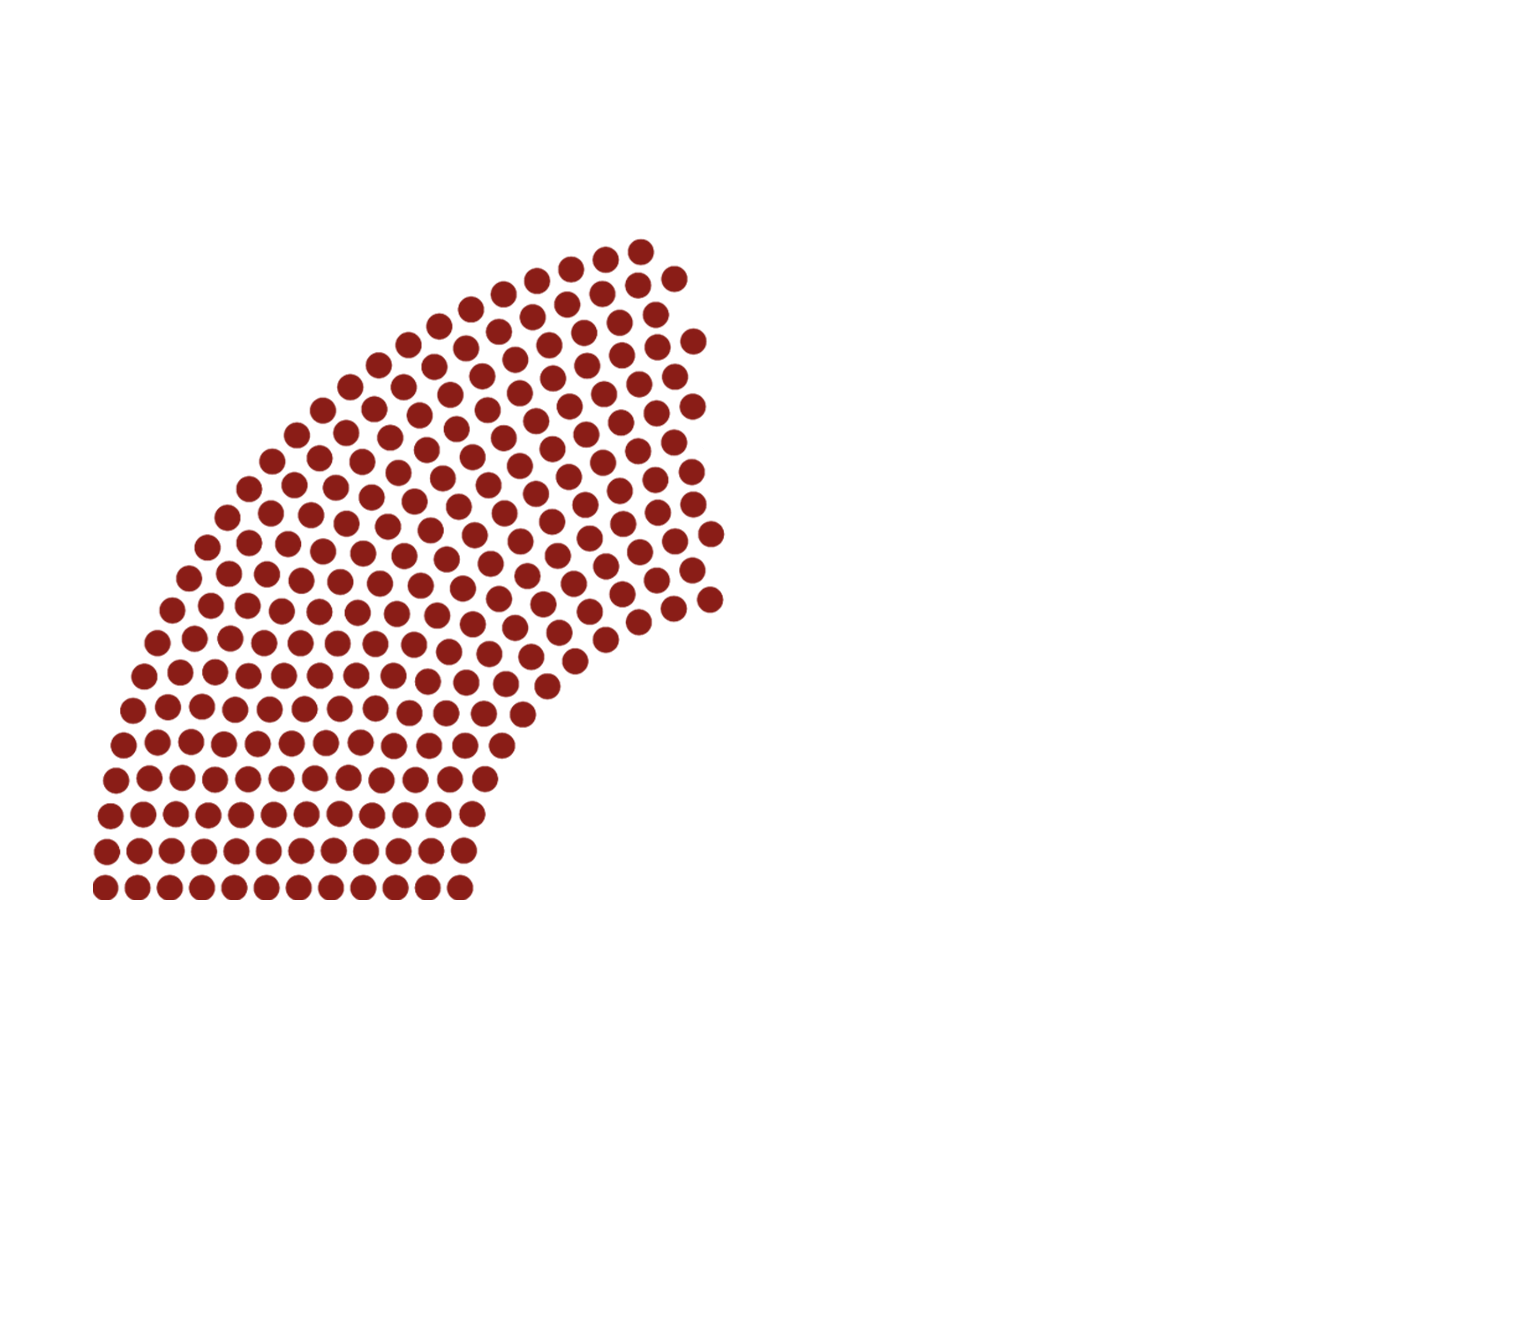
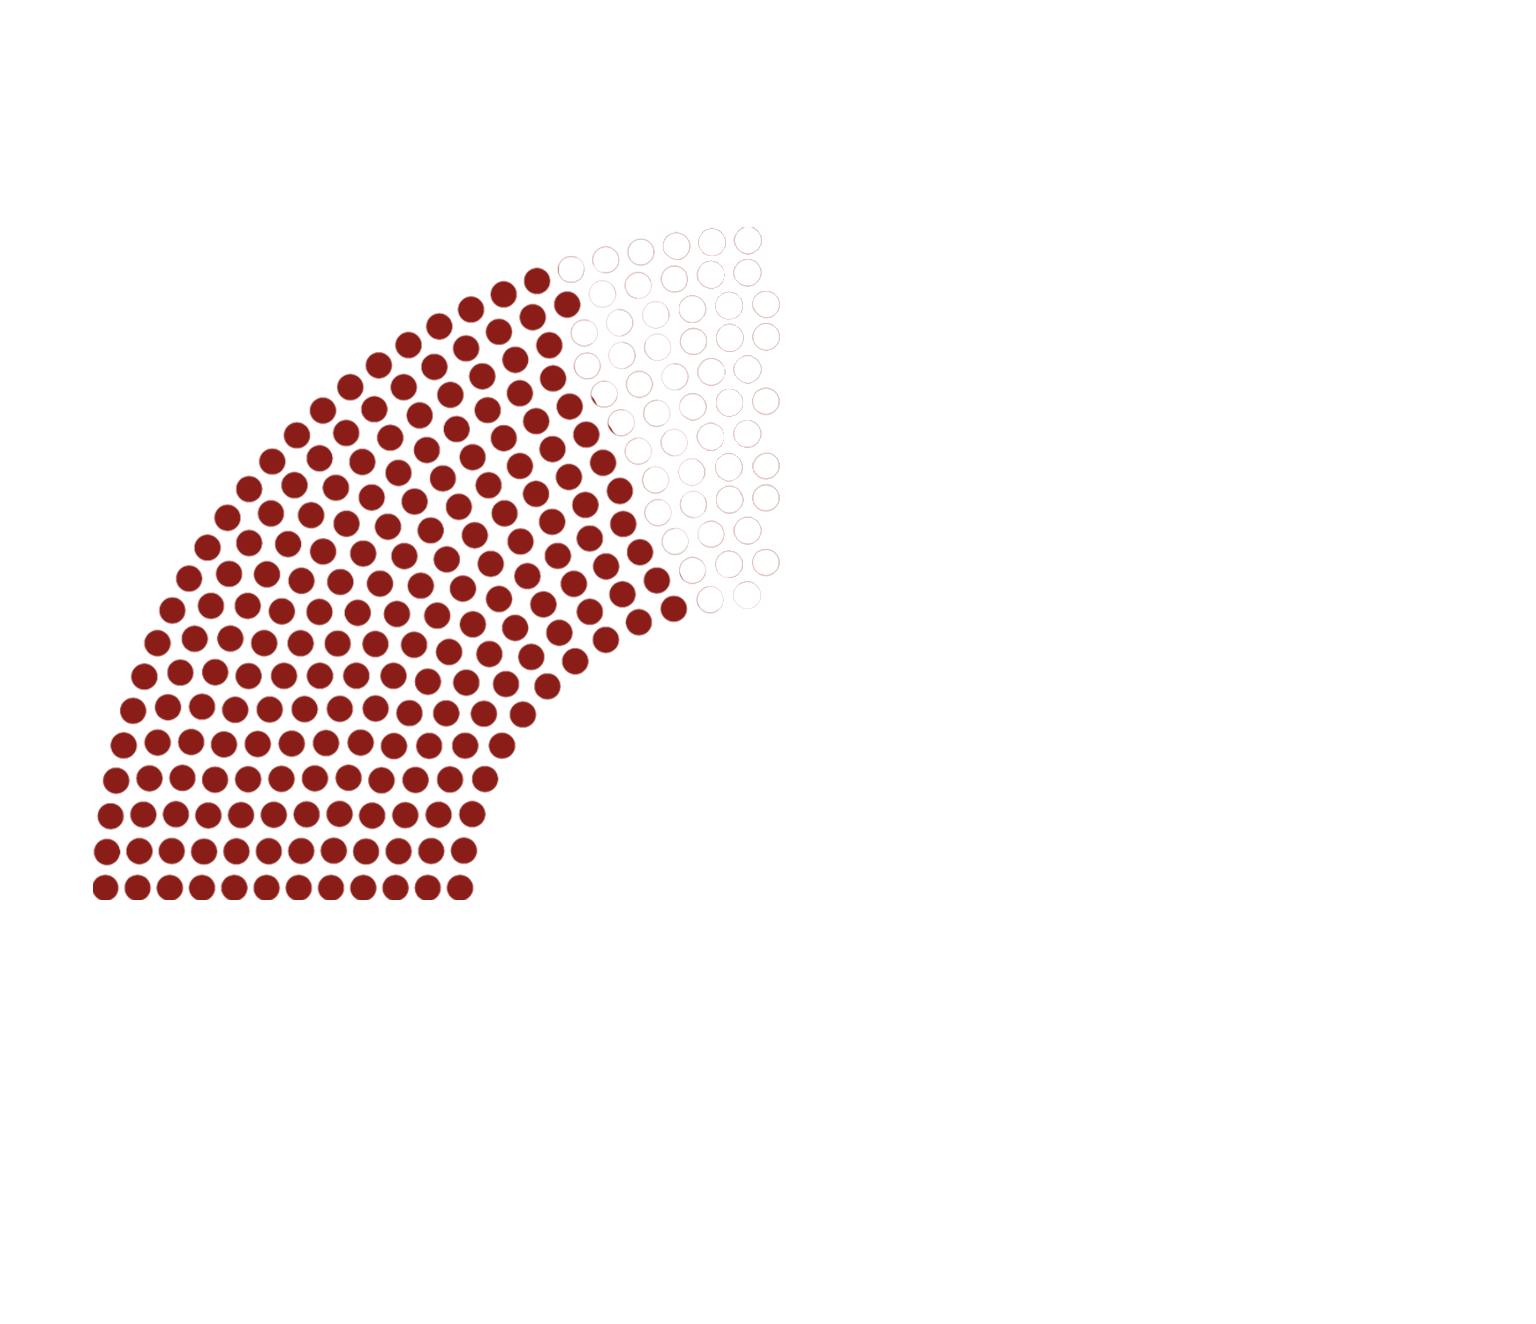
se actualizaron numeros y asintos

Changed region(s): [[0.3438, 0.1858, 0.4688, 0.4645]]

diff --git a/app/index.html b/app/index.html
@@ -1,1 +1,1 @@
-<!DOCTYPE html><html lang="es"><head><meta charset="UTF-8"><meta name="viewport" content="width=device-width,initial-scale=1,maximum-scale=1,user-scalable=no"><title>Resultados diputados 2021</title><link rel="stylesheet" href="css/styles.min.css"></head><body><div class="container"><h2 class="title">Resultados Cámara de Diputados 2021</h2><p class="text-instructions">Da clic en un partido si quieres ver los lugares que ocupan dentro de la cámara</p><div class="imagen-camara"><img src="img/asientos/camara-img.png" class="img-responsive" alt=""><div class="imagen-camara__asientos asientos"><img src="img/asientos/pan.png" class="img-responsive" alt="" data="pan"> <img src="img/asientos/pri.png" class="img-responsive" alt="" data="pri"> <img src="img/asientos/prd.png" class="img-responsive" alt="" data="prd"> <img src="img/asientos/morena.png" class="img-responsive" alt="" data="morena"> <img src="img/asientos/pv.png" class="img-responsive" alt="" data="pv"> <img src="img/asientos/mc.png" class="img-responsive" alt="" data="mc"> <img src="img/asientos/pt.png" class="img-responsive" alt="" data="pt"></div></div><div class="botones-partidos"><div class="botones-partidos__wrap-boton wrap-button"><span class="botones-partidos__number contador-partido">106 - 117</span><div class="botones-partidos__boton boton-partido" data="pan"><img src="img/pan.png" class="img-responsive" alt=""></div><img src="img/shadow.png" class="shadow-button" alt=""></div><div class="botones-partidos__wrap-boton wrap-button"><span class="botones-partidos__number contador-partido">63 - 75</span><div class="botones-partidos__boton boton-partido" data="pri"><img src="img/pri.png" class="img-responsive" alt=""></div><img src="img/shadow.png" class="shadow-button" alt=""></div><div class="botones-partidos__wrap-boton wrap-button"><span class="botones-partidos__number contador-partido">12 - 21</span><div class="botones-partidos__boton boton-partido" data="prd"><img src="img/prd.png" class="img-responsive" alt=""></div><img src="img/shadow.png" class="shadow-button" alt=""></div><div class="botones-partidos__wrap-boton wrap-button"><span class="botones-partidos__number contador-partido">190 -203</span><div class="botones-partidos__boton boton-partido" data="morena"><img src="img/morena.png" class="img-responsive" alt=""></div><img src="img/shadow.png" class="shadow-button" alt=""></div><div class="botones-partidos__wrap-boton wrap-button"><span class="botones-partidos__number contador-partido">40 - 48</span><div class="botones-partidos__boton boton-partido" data="pv"><img src="img/pv.png" class="img-responsive" alt=""></div><img src="img/shadow.png" class="shadow-button" alt=""></div><div class="botones-partidos__wrap-boton wrap-button"><span class="botones-partidos__number contador-partido">20 - 27</span><div class="botones-partidos__boton boton-partido" data="mc"><img src="img/mc.png" class="img-responsive" alt=""></div><img src="img/shadow.png" class="shadow-button" alt=""></div><div class="botones-partidos__wrap-boton wrap-button"><span class="botones-partidos__number contador-partido">35 - 41</span><div class="botones-partidos__boton boton-partido" data="pt"><img src="img/pt.png" class="img-responsive" alt=""></div><img src="img/shadow.png" class="shadow-button" alt=""></div></div><div class="wrap-button-all"><button class="button-all">Ver todos</button></div></div><script src="js/resources.min.js"></script><script src="js/main.min.js"></script></body></html>
+<!DOCTYPE html><html lang="es"><head><meta charset="UTF-8"><meta name="viewport" content="width=device-width,initial-scale=1,maximum-scale=1,user-scalable=no"><title>Resultados diputados 2021</title><link rel="stylesheet" href="css/styles.min.css"></head><body><div class="container"><h2 class="title">Resultados Cámara de Diputados 2021</h2><p class="text-instructions">Da clic en un partido si quieres ver los lugares que ocupan dentro de la cámara</p><div class="imagen-camara"><img src="img/asientos/camara-img.png" class="img-responsive" alt=""><div class="imagen-camara__asientos asientos"><img src="img/asientos/pan.png" class="img-responsive" alt="" data="pan"> <img src="img/asientos/pri.png" class="img-responsive" alt="" data="pri"> <img src="img/asientos/prd.png" class="img-responsive" alt="" data="prd"> <img src="img/asientos/morena.png" class="img-responsive" alt="" data="morena"> <img src="img/asientos/pv.png" class="img-responsive" alt="" data="pv"> <img src="img/asientos/mc.png" class="img-responsive" alt="" data="mc"> <img src="img/asientos/pes.png" class="img-responsive" alt="" data="pes"> <img src="img/asientos/pt.png" class="img-responsive" alt="" data="pt"></div></div><div class="botones-partidos"><div class="botones-partidos__wrap-boton wrap-button"><span class="botones-partidos__number contador-partido">106 - 117</span><div class="botones-partidos__boton boton-partido" data="pan"><img src="img/pan.png" class="img-responsive" alt=""></div><img src="img/shadow.png" class="shadow-button" alt=""></div><div class="botones-partidos__wrap-boton wrap-button"><span class="botones-partidos__number contador-partido">63 - 75</span><div class="botones-partidos__boton boton-partido" data="pri"><img src="img/pri.png" class="img-responsive" alt=""></div><img src="img/shadow.png" class="shadow-button" alt=""></div><div class="botones-partidos__wrap-boton wrap-button"><span class="botones-partidos__number contador-partido">12 - 21</span><div class="botones-partidos__boton boton-partido" data="prd"><img src="img/prd.png" class="img-responsive" alt=""></div><img src="img/shadow.png" class="shadow-button" alt=""></div><div class="botones-partidos__wrap-boton wrap-button"><span class="botones-partidos__number contador-partido">190 -203</span><div class="botones-partidos__boton boton-partido" data="morena"><img src="img/morena.png" class="img-responsive" alt=""></div><img src="img/shadow.png" class="shadow-button" alt=""></div><div class="botones-partidos__wrap-boton wrap-button"><span class="botones-partidos__number contador-partido">40 - 48</span><div class="botones-partidos__boton boton-partido" data="pv"><img src="img/pv.png" class="img-responsive" alt=""></div><img src="img/shadow.png" class="shadow-button" alt=""></div><div class="botones-partidos__wrap-boton wrap-button"><span class="botones-partidos__number contador-partido">20 - 27</span><div class="botones-partidos__boton boton-partido" data="mc"><img src="img/mc.png" class="img-responsive" alt=""></div><img src="img/shadow.png" class="shadow-button" alt=""></div><div class="botones-partidos__wrap-boton wrap-button"><span class="botones-partidos__number contador-partido">0 - 6</span><div class="botones-partidos__boton boton-partido" data="pes"><img src="img/pes.png" class="img-responsive" alt=""></div><img src="img/shadow.png" class="shadow-button" alt=""></div><div class="botones-partidos__wrap-boton wrap-button"><span class="botones-partidos__number contador-partido">35 - 41</span><div class="botones-partidos__boton boton-partido" data="pt"><img src="img/pt.png" class="img-responsive" alt=""></div><img src="img/shadow.png" class="shadow-button" alt=""></div></div><div class="wrap-button-all"><button class="button-all">Ver todos</button></div></div><script src="js/resources.min.js"></script><script src="js/main.min.js"></script></body></html>

diff --git a/docs/index.html b/docs/index.html
@@ -1,1 +1,1 @@
-<!DOCTYPE html><html lang="es"><head><meta charset="UTF-8"><meta name="viewport" content="width=device-width,initial-scale=1,maximum-scale=1,user-scalable=no"><title>Resultados diputados 2021</title><link rel="stylesheet" href="css/styles.min.css"></head><body><div class="container"><h2 class="title">Resultados Cámara de Diputados 2021</h2><p class="text-instructions">Da clic en un partido si quieres ver los lugares que ocupan dentro de la cámara</p><div class="imagen-camara"><img src="img/asientos/camara-img.png" class="img-responsive" alt=""><div class="imagen-camara__asientos asientos"><img src="img/asientos/pan.png" class="img-responsive" alt="" data="pan"> <img src="img/asientos/pri.png" class="img-responsive" alt="" data="pri"> <img src="img/asientos/prd.png" class="img-responsive" alt="" data="prd"> <img src="img/asientos/morena.png" class="img-responsive" alt="" data="morena"> <img src="img/asientos/pv.png" class="img-responsive" alt="" data="pv"> <img src="img/asientos/mc.png" class="img-responsive" alt="" data="mc"> <img src="img/asientos/pt.png" class="img-responsive" alt="" data="pt"></div></div><div class="botones-partidos"><div class="botones-partidos__wrap-boton wrap-button"><span class="botones-partidos__number contador-partido">106 - 117</span><div class="botones-partidos__boton boton-partido" data="pan"><img src="img/pan.png" class="img-responsive" alt=""></div><img src="img/shadow.png" class="shadow-button" alt=""></div><div class="botones-partidos__wrap-boton wrap-button"><span class="botones-partidos__number contador-partido">63 - 75</span><div class="botones-partidos__boton boton-partido" data="pri"><img src="img/pri.png" class="img-responsive" alt=""></div><img src="img/shadow.png" class="shadow-button" alt=""></div><div class="botones-partidos__wrap-boton wrap-button"><span class="botones-partidos__number contador-partido">12 - 21</span><div class="botones-partidos__boton boton-partido" data="prd"><img src="img/prd.png" class="img-responsive" alt=""></div><img src="img/shadow.png" class="shadow-button" alt=""></div><div class="botones-partidos__wrap-boton wrap-button"><span class="botones-partidos__number contador-partido">190 -203</span><div class="botones-partidos__boton boton-partido" data="morena"><img src="img/morena.png" class="img-responsive" alt=""></div><img src="img/shadow.png" class="shadow-button" alt=""></div><div class="botones-partidos__wrap-boton wrap-button"><span class="botones-partidos__number contador-partido">40 - 48</span><div class="botones-partidos__boton boton-partido" data="pv"><img src="img/pv.png" class="img-responsive" alt=""></div><img src="img/shadow.png" class="shadow-button" alt=""></div><div class="botones-partidos__wrap-boton wrap-button"><span class="botones-partidos__number contador-partido">20 - 27</span><div class="botones-partidos__boton boton-partido" data="mc"><img src="img/mc.png" class="img-responsive" alt=""></div><img src="img/shadow.png" class="shadow-button" alt=""></div><div class="botones-partidos__wrap-boton wrap-button"><span class="botones-partidos__number contador-partido">35 - 41</span><div class="botones-partidos__boton boton-partido" data="pt"><img src="img/pt.png" class="img-responsive" alt=""></div><img src="img/shadow.png" class="shadow-button" alt=""></div></div><div class="wrap-button-all"><button class="button-all">Ver todos</button></div></div><script src="js/resources.min.js"></script><script src="js/main.min.js"></script></body></html>
+<!DOCTYPE html><html lang="es"><head><meta charset="UTF-8"><meta name="viewport" content="width=device-width,initial-scale=1,maximum-scale=1,user-scalable=no"><title>Resultados diputados 2021</title><link rel="stylesheet" href="css/styles.min.css"></head><body><div class="container"><h2 class="title">Resultados Cámara de Diputados 2021</h2><p class="text-instructions">Da clic en un partido si quieres ver los lugares que ocupan dentro de la cámara</p><div class="imagen-camara"><img src="img/asientos/camara-img.png" class="img-responsive" alt=""><div class="imagen-camara__asientos asientos"><img src="img/asientos/pan.png" class="img-responsive" alt="" data="pan"> <img src="img/asientos/pri.png" class="img-responsive" alt="" data="pri"> <img src="img/asientos/prd.png" class="img-responsive" alt="" data="prd"> <img src="img/asientos/morena.png" class="img-responsive" alt="" data="morena"> <img src="img/asientos/pv.png" class="img-responsive" alt="" data="pv"> <img src="img/asientos/mc.png" class="img-responsive" alt="" data="mc"> <img src="img/asientos/pes.png" class="img-responsive" alt="" data="pes"> <img src="img/asientos/pt.png" class="img-responsive" alt="" data="pt"></div></div><div class="botones-partidos"><div class="botones-partidos__wrap-boton wrap-button"><span class="botones-partidos__number contador-partido">106 - 117</span><div class="botones-partidos__boton boton-partido" data="pan"><img src="img/pan.png" class="img-responsive" alt=""></div><img src="img/shadow.png" class="shadow-button" alt=""></div><div class="botones-partidos__wrap-boton wrap-button"><span class="botones-partidos__number contador-partido">63 - 75</span><div class="botones-partidos__boton boton-partido" data="pri"><img src="img/pri.png" class="img-responsive" alt=""></div><img src="img/shadow.png" class="shadow-button" alt=""></div><div class="botones-partidos__wrap-boton wrap-button"><span class="botones-partidos__number contador-partido">12 - 21</span><div class="botones-partidos__boton boton-partido" data="prd"><img src="img/prd.png" class="img-responsive" alt=""></div><img src="img/shadow.png" class="shadow-button" alt=""></div><div class="botones-partidos__wrap-boton wrap-button"><span class="botones-partidos__number contador-partido">190 -203</span><div class="botones-partidos__boton boton-partido" data="morena"><img src="img/morena.png" class="img-responsive" alt=""></div><img src="img/shadow.png" class="shadow-button" alt=""></div><div class="botones-partidos__wrap-boton wrap-button"><span class="botones-partidos__number contador-partido">40 - 48</span><div class="botones-partidos__boton boton-partido" data="pv"><img src="img/pv.png" class="img-responsive" alt=""></div><img src="img/shadow.png" class="shadow-button" alt=""></div><div class="botones-partidos__wrap-boton wrap-button"><span class="botones-partidos__number contador-partido">20 - 27</span><div class="botones-partidos__boton boton-partido" data="mc"><img src="img/mc.png" class="img-responsive" alt=""></div><img src="img/shadow.png" class="shadow-button" alt=""></div><div class="botones-partidos__wrap-boton wrap-button"><span class="botones-partidos__number contador-partido">0 - 6</span><div class="botones-partidos__boton boton-partido" data="pes"><img src="img/pes.png" class="img-responsive" alt=""></div><img src="img/shadow.png" class="shadow-button" alt=""></div><div class="botones-partidos__wrap-boton wrap-button"><span class="botones-partidos__number contador-partido">35 - 41</span><div class="botones-partidos__boton boton-partido" data="pt"><img src="img/pt.png" class="img-responsive" alt=""></div><img src="img/shadow.png" class="shadow-button" alt=""></div></div><div class="wrap-button-all"><button class="button-all">Ver todos</button></div></div><script src="js/resources.min.js"></script><script src="js/main.min.js"></script></body></html>

diff --git a/sources/html/index-dev.html b/sources/html/index-dev.html
@@ -19,6 +19,7 @@
         <img src="img/asientos/morena.png" class="img-responsive" alt="" data="morena">
         <img src="img/asientos/pv.png" class="img-responsive" alt="" data="pv">
         <img src="img/asientos/mc.png" class="img-responsive" alt="" data="mc">
+        <img src="img/asientos/pes.png" class="img-responsive" alt="" data="pes">
         <img src="img/asientos/pt.png" class="img-responsive" alt="" data="pt">
       </div>
     </div>
@@ -72,13 +73,13 @@
         <img src="img/shadow.png" class="shadow-button" alt="">
       </div>
       <!-- ///// ==== BUTTON ===== ///// -->
-      <!-- <div class="botones-partidos__wrap-boton wrap-button">
+      <div class="botones-partidos__wrap-boton wrap-button">
         <span class="botones-partidos__number contador-partido">0 - 6</span>
         <div class="botones-partidos__boton boton-partido" data="pes">
           <img src="img/pes.png" class="img-responsive" alt="">
         </div>
         <img src="img/shadow.png" class="shadow-button" alt="">
-      </div> -->
+      </div>
       <!-- ///// ==== BUTTON ===== ///// -->
       <div class="botones-partidos__wrap-boton wrap-button">
         <span class="botones-partidos__number contador-partido">35 - 41</span>

diff --git a/iframe.html b/iframe.html
@@ -7,24 +7,24 @@
   <title>Iframe Componente</title>
 </head>
 <body>
-  <div class="component">
+  <div class="componente">
     <iframe src="https://ivallejo-infobae.github.io/elecciones-diputados-2021/" frameborder="0" marginwidth="0" marginheight="0"></iframe>
     <style>
-      .component {
+      .componente {
         width: 100%;
       }
-      .component iframe {
+      .componente iframe {
         display: block;
         width: 100%;
-        height: 600px;
+        min-height: 600px;
       }
     </style>
-    <style media="screen and (min-width:768px)">
-      .component {
+    <style media="screen and (min-width:758px)">
+      .componente {
         max-width: 768px;
       }
-      .component iframe {
-        height: 900px;
+      .componente iframe {
+        min-height: 900px;
       }
     </style>
   </div>
